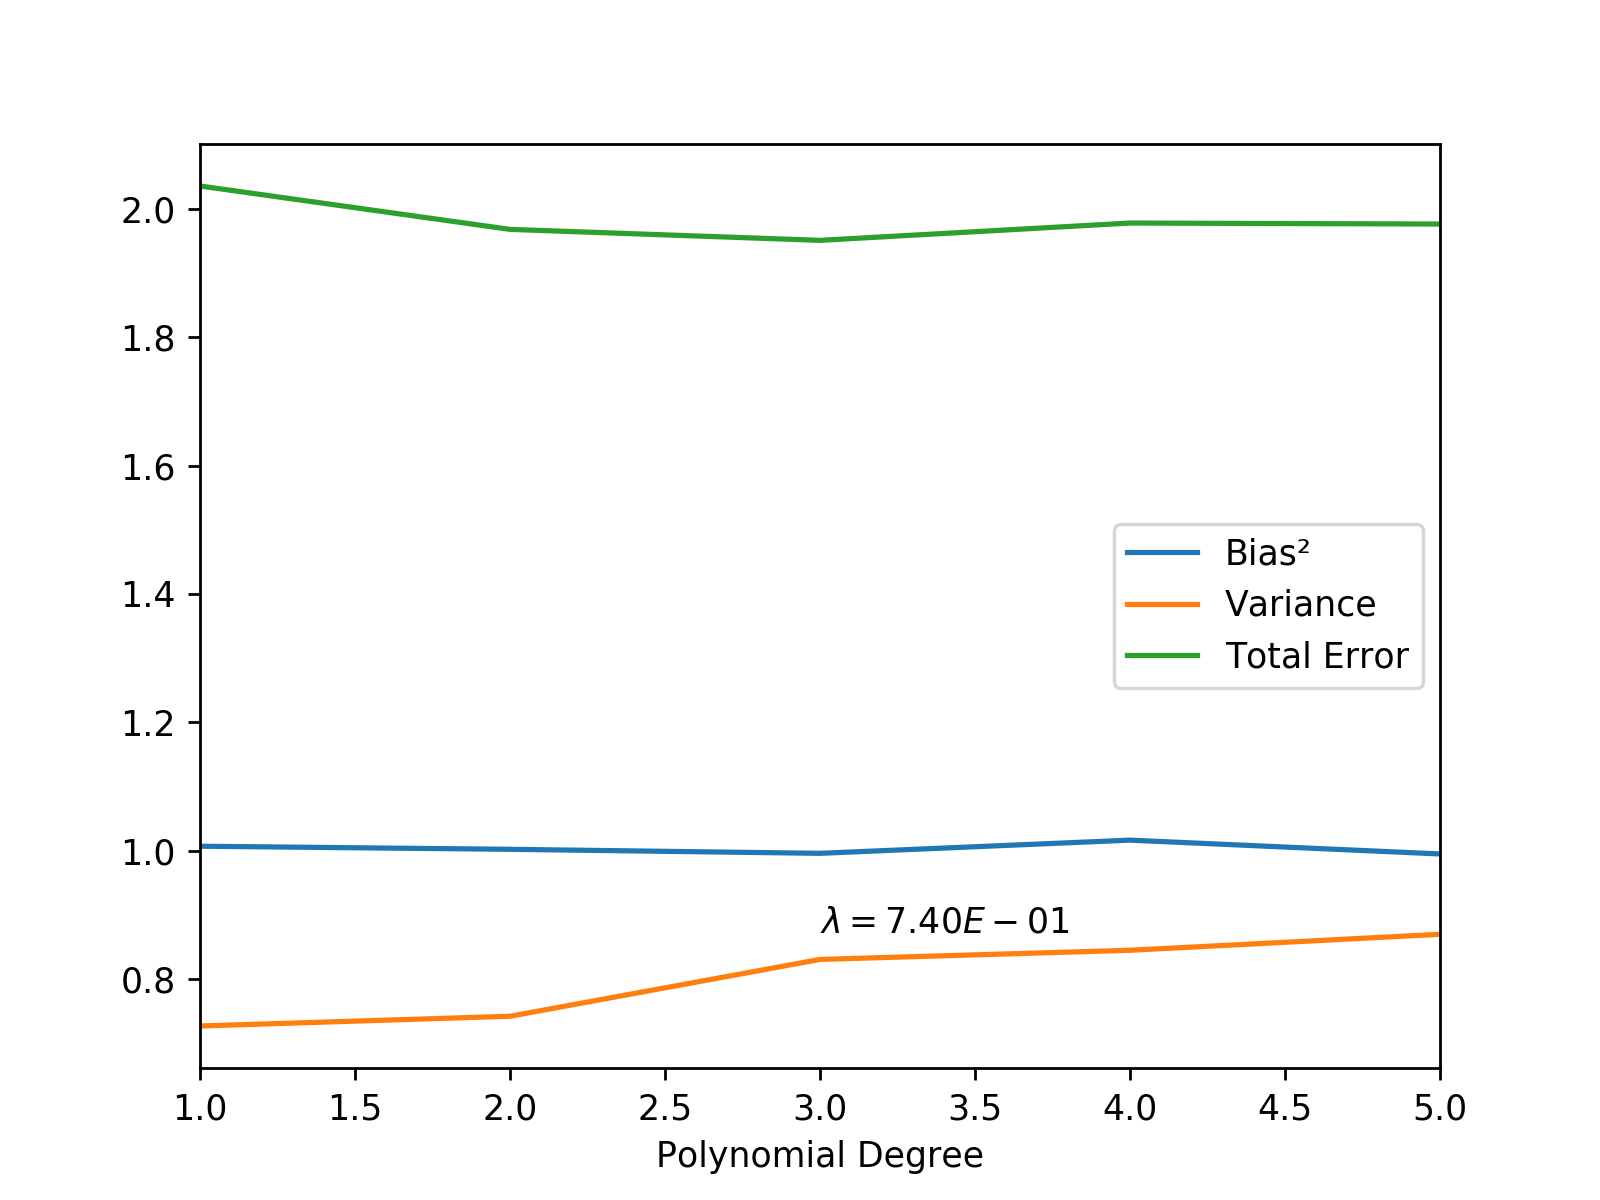
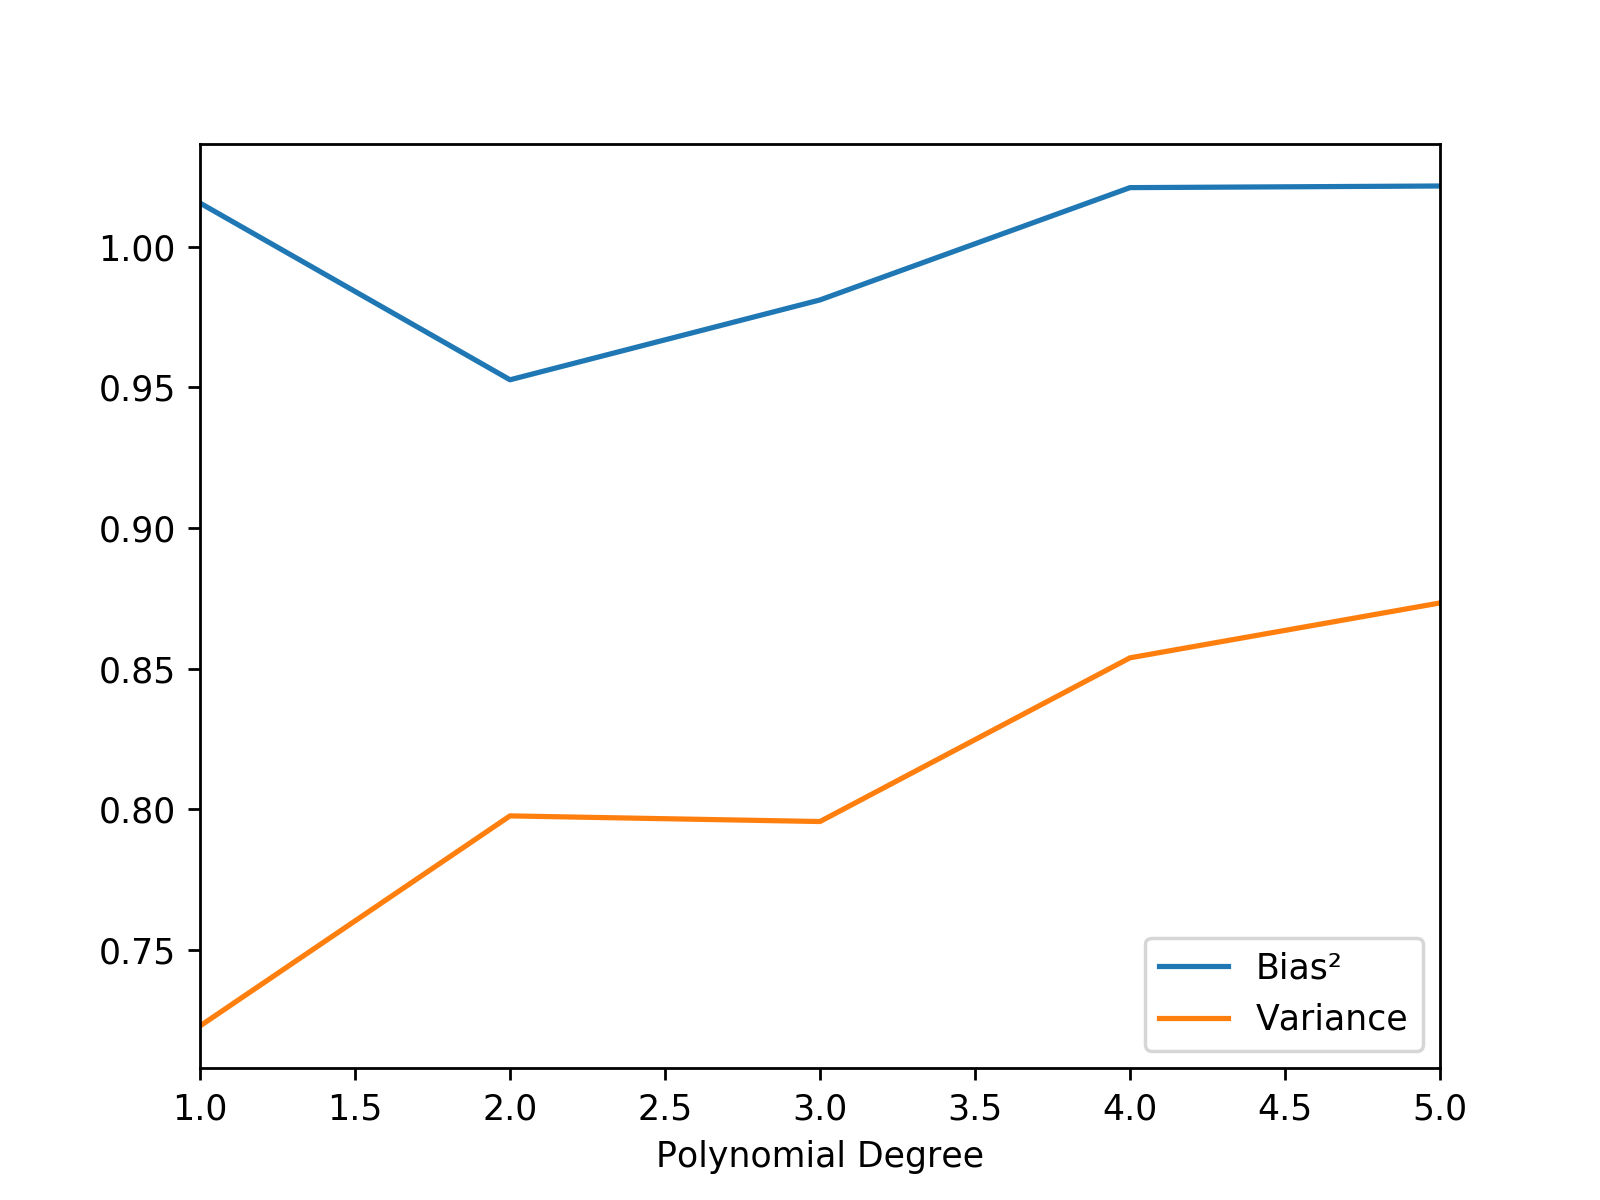
Fixed MSE/total error

diff --git a/FYS-STK4155/Project_1/Project_1.py b/FYS-STK4155/Project_1/Project_1.py
@@ -19,9 +19,9 @@ max_deg = 5          # Maximum polynomial approximation degree
 split_test = 25      # Percentage of data to split into testing set
 sigma = 0.1          # Standard deviation of Gaussian noise in Franke function
 
-alpha_min_R = 2E-2   # Minimum Lambda in Ridge
+alpha_min_R = 1E-10  # Minimum Lambda in Ridge
 alpha_max_R = 1E0    # Maximum lambda in Ridge
-alpha_min_L = 2E-2   # Minimum lambda in LASSO
+alpha_min_L = 1E-10  # Minimum lambda in LASSO
 alpha_max_L = 1E0    # Maximum lambda in LASSO
 N_alpha_R = 50       # Number of lambdas to check for with Ridge in Part d)
 N_alpha_L = 50       # Number of lambdas to check for with LASSO in Part e)
@@ -252,14 +252,12 @@ def part_D(R, f_xy = None, save = False, plots = False, name = ""):
     mse = []
     R2 = []
     bias = []
-    err = []
 
     for m,l in enumerate(lambda_vals):
         var_step = []
         mse_step = []
         R2_step = []
         bias_step = []
-        err_step = []
 
         for n,d in enumerate(d_vals):
             if globals()["debug_mode"] is True:
@@ -277,22 +275,19 @@ def part_D(R, f_xy = None, save = False, plots = False, name = ""):
             if f_xy is not None:
                 f_test = f_xy[arg_idx[1]]
                 bias_step.append(np.mean((f_test - np.mean(Y_hat_test))**2))
-                err_step.append(bias_step[-1] + var_step[-1] + mse_step[-1])
             else:
                 bias_step.append(0)
-                err_step.append(0)
 
         var.append(var_step)
         mse.append(mse_step)
         R2.append(R2_step)
         bias.append(bias_step)
-        err.append(err_step)
 
     print()
 
     L,D = np.meshgrid(d_vals, lambda_vals)
-    var, mse, R2, bias, err = \
-    np.array(var), np.array(mse), np.array(R2), np.array(bias), np.array(err)
+    var, mse, R2, bias = \
+    np.array(var), np.array(mse), np.array(R2), np.array(bias)
 
     if plots is True:
 
@@ -300,8 +295,8 @@ def part_D(R, f_xy = None, save = False, plots = False, name = ""):
             data = [var, mse, R2]
             data_labels = ["Variance", "$MSE$", "$R^2$"]
         else:
-            data = [var, mse, R2, bias, err]
-            data_labels = ["Variance", "$MSE$", "$R^2$", "Bias²", "Total Error"]
+            data = [var, mse, R2, bias]
+            data_labels = ["Variance", "$MSE$", "$R^2$", "Bias²"]
 
         xlabel = "Polynomial Degree"
         ylabel = r"Hyperparameter $\lambda$"
@@ -311,12 +306,12 @@ def part_D(R, f_xy = None, save = False, plots = False, name = ""):
             ax = fig.gca(projection="3d")
             fig.set_size_inches(8, 6)
 
-            if j == "Total Error":
+            if j == "$MSE$":
                 minimum = np.unravel_index(i.argmin(), i.shape)
                 ax.plot([L[minimum]],[D[minimum]],[i[minimum]], "kv",
                 markersize = 10)
 
-                legend = (f"Minimum at\n$d$ = {L[minimum]:g}, $\\lambda$ = "
+                legend = (f"Minimum MSE = {i[minimum]:g} at\n$d$ = {L[minimum]:g}, $\\lambda$ = "
                           f"{D[minimum]:g}")
 
                 plt.legend([legend])
@@ -337,13 +332,12 @@ def part_D(R, f_xy = None, save = False, plots = False, name = ""):
 
         if f_xy is not None:
             s = len(lambda_vals)//globals()["bv_plots"]
-            for n,(i,j,k) in enumerate(zip(bias[::s], var[::s], err[::s])):
+            for n,(i,j) in enumerate(zip(bias[::s], var[::s])):
                 plt.plot(d_vals, i, label = "Bias²")
                 plt.plot(d_vals, j, label = "Variance")
-                plt.plot(d_vals, k, label = "Total Error")
                 plt.legend()
                 plt.xlabel(xlabel)
-                plt.text(np.median(d_vals), 2*(np.max([i,j,k])-np.min([i,j,k]))/3,
+                plt.text(np.median(d_vals), 2*(np.max([i,j])-np.min([i,j]))/3,
                  f"$\\lambda = {lambda_vals[s*n]:.2E}$")
                 plt.xlim([min_deg, max_deg])
 
@@ -359,20 +353,18 @@ def part_E(R, f_xy = None, save = False, plots = False, name = ""):
 
     debug_title("E")
 
-    lambda_vals = np.linspace(alpha_min_L, alpha_max_L, N_alpha_L)
+    lambda_vals = np.linspace(alpha_min_R, alpha_max_R, N_alpha_R)
 
     var = []
     mse = []
     R2 = []
     bias = []
-    err = []
 
     for m,l in enumerate(lambda_vals):
         var_step = []
         mse_step = []
         R2_step = []
         bias_step = []
-        err_step = []
 
         for n,d in enumerate(d_vals):
             if globals()["debug_mode"] is True:
@@ -390,22 +382,19 @@ def part_E(R, f_xy = None, save = False, plots = False, name = ""):
             if f_xy is not None:
                 f_test = f_xy[arg_idx[1]]
                 bias_step.append(np.mean((f_test - np.mean(Y_hat_test))**2))
-                err_step.append(bias_step[-1] + var_step[-1] + mse_step[-1])
             else:
                 bias_step.append(0)
-                err_step.append(0)
 
         var.append(var_step)
         mse.append(mse_step)
         R2.append(R2_step)
         bias.append(bias_step)
-        err.append(err_step)
 
     print()
 
     L,D = np.meshgrid(d_vals, lambda_vals)
-    var, mse, R2, bias, err = \
-    np.array(var), np.array(mse), np.array(R2), np.array(bias), np.array(err)
+    var, mse, R2, bias = \
+    np.array(var), np.array(mse), np.array(R2), np.array(bias)
 
     if plots is True:
 
@@ -413,8 +402,8 @@ def part_E(R, f_xy = None, save = False, plots = False, name = ""):
             data = [var, mse, R2]
             data_labels = ["Variance", "$MSE$", "$R^2$"]
         else:
-            data = [var, mse, R2, bias, err]
-            data_labels = ["Variance", "$MSE$", "$R^2$", "Bias²", "Total Error"]
+            data = [var, mse, R2, bias]
+            data_labels = ["Variance", "$MSE$", "$R^2$", "Bias²"]
 
         xlabel = "Polynomial Degree"
         ylabel = r"Hyperparameter $\lambda$"
@@ -424,12 +413,12 @@ def part_E(R, f_xy = None, save = False, plots = False, name = ""):
             ax = fig.gca(projection="3d")
             fig.set_size_inches(8, 6)
 
-            if j == "Total Error":
+            if j == "$MSE$":
                 minimum = np.unravel_index(i.argmin(), i.shape)
                 ax.plot([L[minimum]],[D[minimum]],[i[minimum]], "kv",
                 markersize = 10)
 
-                legend = (f"Minimum at\n$d$ = {L[minimum]:g}, $\\lambda$ = "
+                legend = (f"Minimum MSE = {i[minimum]:g} at\n$d$ = {L[minimum]:g}, $\\lambda$ = "
                           f"{D[minimum]:g}")
 
                 plt.legend([legend])
@@ -450,13 +439,12 @@ def part_E(R, f_xy = None, save = False, plots = False, name = ""):
 
         if f_xy is not None:
             s = len(lambda_vals)//globals()["bv_plots"]
-            for n,(i,j,k) in enumerate(zip(bias[::s], var[::s], err[::s])):
+            for n,(i,j) in enumerate(zip(bias[::s], var[::s])):
                 plt.plot(d_vals, i, label = "Bias²")
                 plt.plot(d_vals, j, label = "Variance")
-                plt.plot(d_vals, k, label = "Total Error")
                 plt.legend()
                 plt.xlabel(xlabel)
-                plt.text(np.median(d_vals), 2*(np.max([i,j,k])-np.min([i,j,k]))/3,
+                plt.text(np.median(d_vals), 2*(np.max([i,j])-np.min([i,j]))/3,
                  f"$\\lambda = {lambda_vals[s*n]:.2E}$")
                 plt.xlim([min_deg, max_deg])
 
